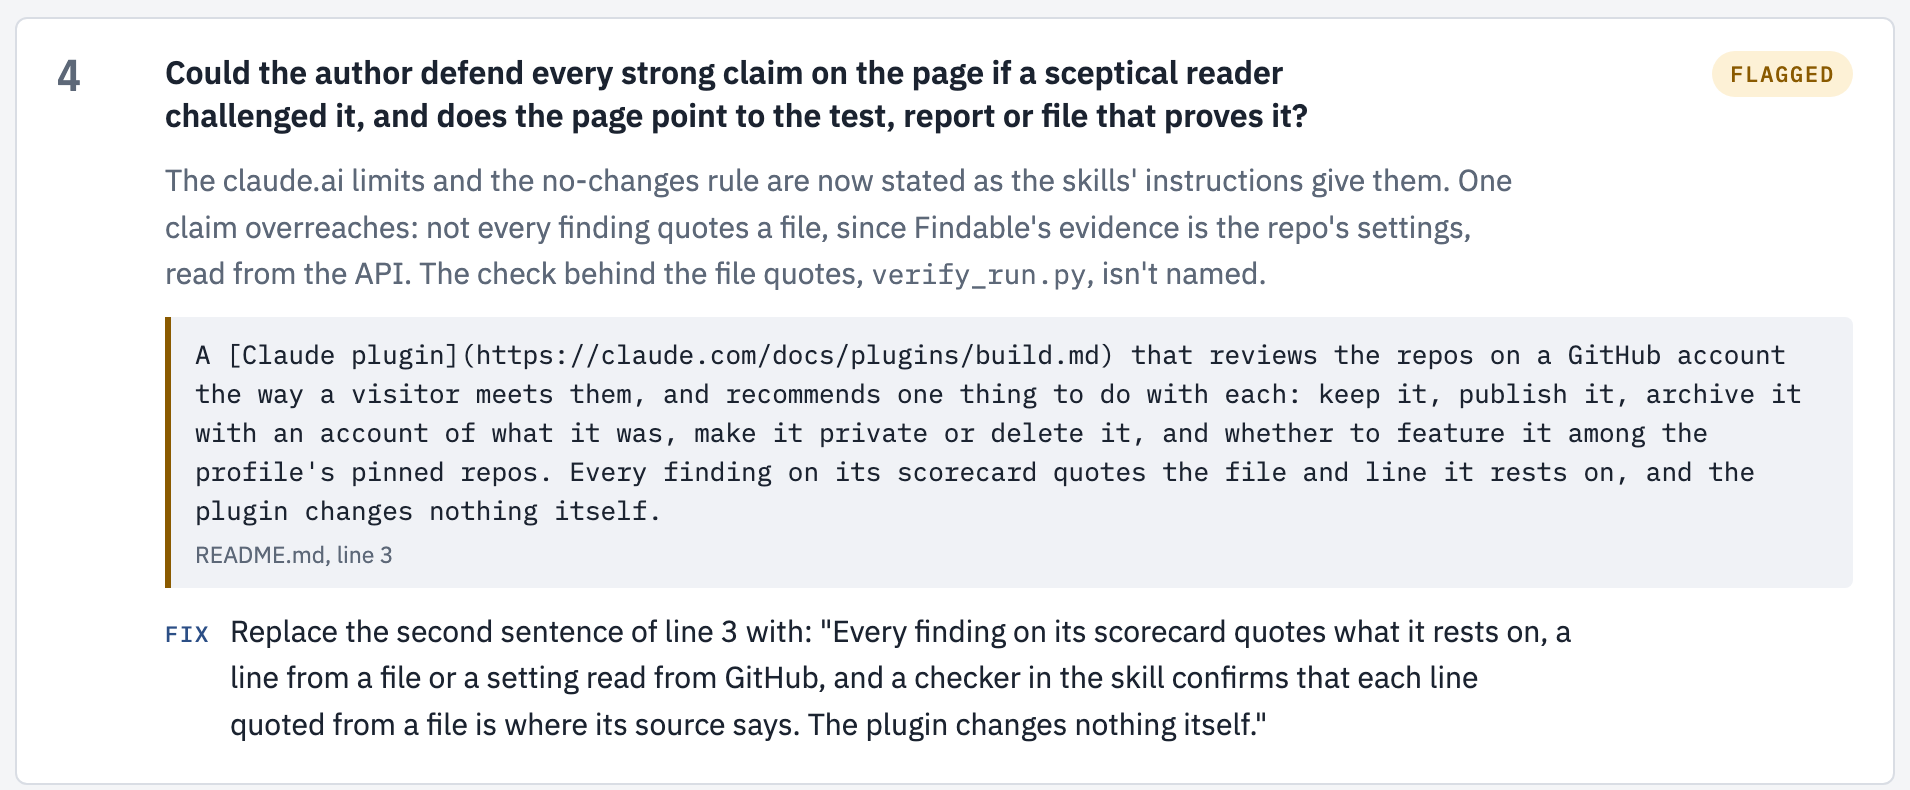
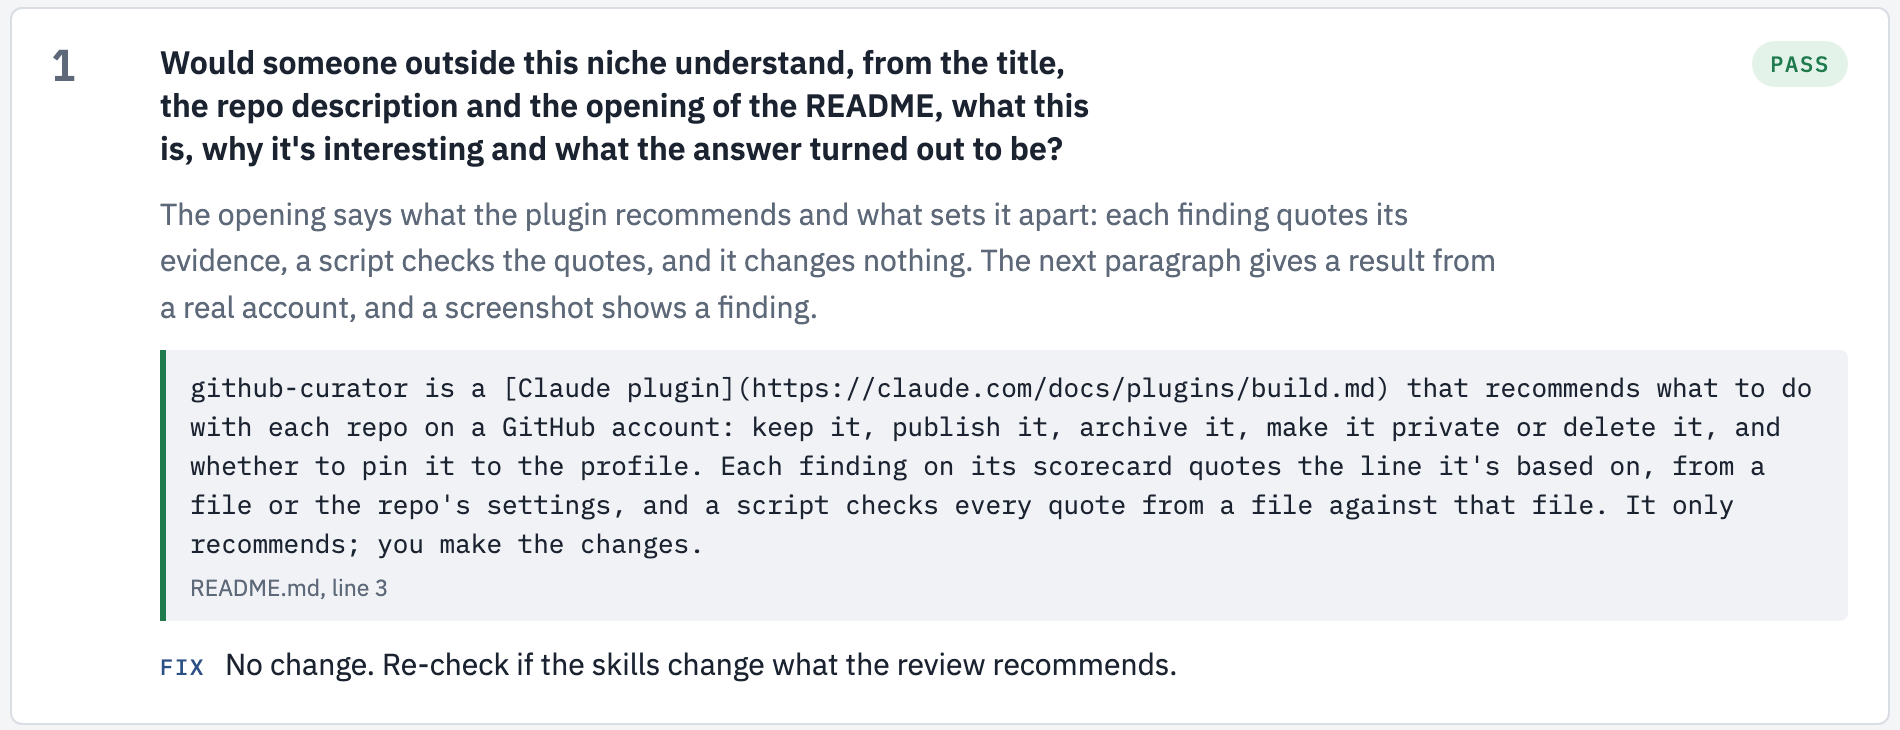
docs(readme): retake the screenshot from the latest review
The screenshot showed the Defensible finding on the old opening, which
quoted a sentence the README no longer has. It now shows the first
question from the latest review of this branch, which passes and quotes
the current opening, so the picture matches the text above it. The alt
text says what it shows.

diff --git a/README.md b/README.md
@@ -4,7 +4,7 @@ github-curator is a [Claude plugin](https://claude.com/docs/plugins/build.md) th
 
 I built it to sort out my own GitHub account, which had years of forks, experiments and half-finished work on it: to see it the way a potential employer or collaborator meets it, and to find out how far a Claude plugin can go on work whose every claim can be checked. One thing it showed me: my first triages counted a fork's commits on its default branch only, and of the 52 forks I deleted on that count, 17 held commits of mine on other branches, such as `develop`. GitHub keeps a deleted fork's commits with the original project, so I could still fetch them, and the review now counts every branch.
 
-![A question from this repo's own scorecard: the finding, the README line it quotes with its file and line number, and the replacement sentence it suggests](https://github.com/tcrossland/github-curator/raw/main/docs/images/scorecard-finding.png)
+![The first question on this repo's own scorecard, marked pass: the finding, and the README line it quotes with its file and line number](https://github.com/tcrossland/github-curator/raw/main/docs/images/scorecard-finding.png)
 
 It holds five skills, each a set of instructions Claude follows when you run its command:
 
